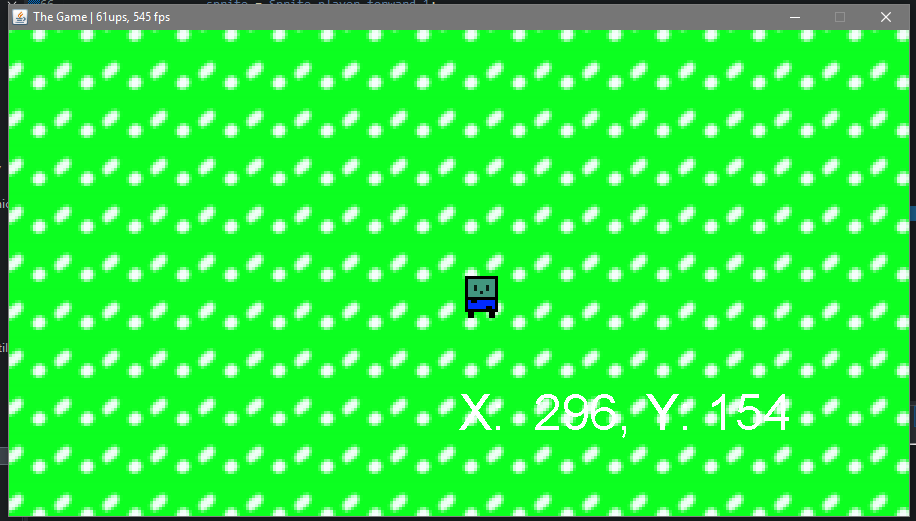
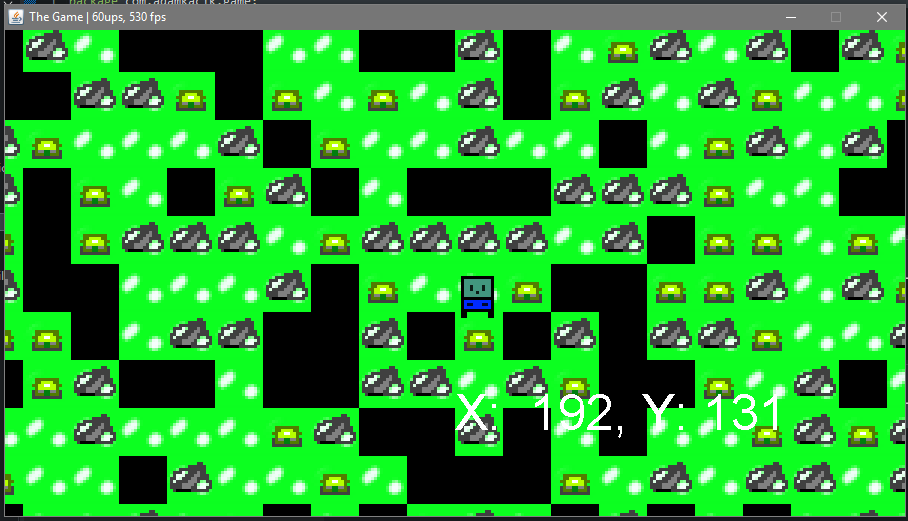
Loading level files

diff --git a/src/com/adamkacik/game/level/SpawnLevel.java b/src/com/adamkacik/game/level/SpawnLevel.java
@@ -1,0 +1,38 @@
+package com.adamkacik.game.level;
+
+import java.awt.image.BufferedImage;
+import java.io.IOException;
+
+import javax.imageio.ImageIO;
+
+import com.adamkacik.game.level.tile.Tile;
+
+public class SpawnLevel extends Level{
+
+	private Tile[] tiles;
+	private int[] levelPixels;
+	
+	public SpawnLevel(String path) {
+		super(path);
+	}
+	
+	protected void loadLevel(String path) {
+		try {
+			BufferedImage image = ImageIO.read(SpawnLevel.class.getResource(path));
+			int w =image.getWidth();
+			int h = image.getHeight();
+			image.getRGB(0, 0,w,h,levelPixels,0,w);
+		} catch (IOException e) {
+			System.out.println("Exception!! Could not load level file!!");
+		}
+	}
+	protected void generateLevel() {
+		
+	}
+	
+	public SpawnLevel(int width, int height) {
+		super(width, height);
+
+	}
+
+}

diff --git a/src/com/adamkacik/game/level/Level.java b/src/com/adamkacik/game/level/Level.java
@@ -27,7 +27,7 @@ public class Level {
 	}
 		}
 	}
-	private void loadLevel(String path) {
+	protected void loadLevel(String path) {
 		
 	}
 	

diff --git a/README.md b/README.md
@@ -3,7 +3,7 @@
 
 #I use help from TheChernoProject "Game Programing" 
 
-![image]https://raw.githubusercontent.com/adamkacik/TheGame/master/screenshot.png
+![image](https://raw.githubusercontent.com/adamkacik/TheGame/master/screenshot.png)
 Eclipse IDE for Java Developers
 Version: Photon Release (4.8.0)
 Build id: 20180619-1200
